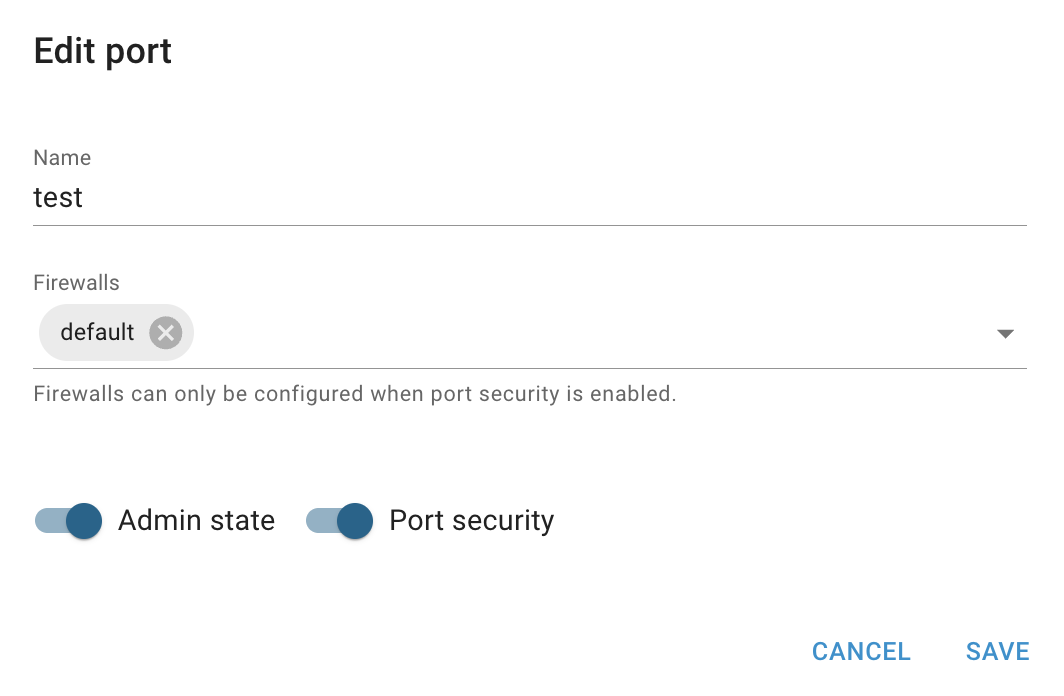
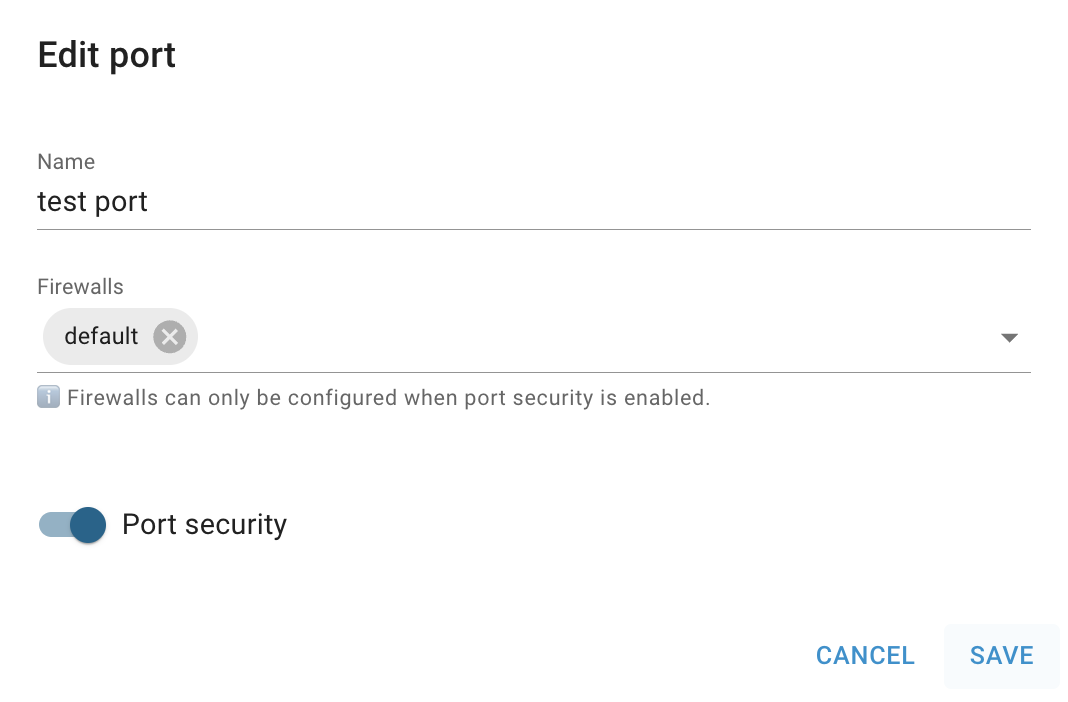
update ports article

diff --git a/content/products/networking/ports.md b/content/products/networking/ports.md
@@ -11,6 +11,7 @@ On this page, you can find an explanation of how to create, edit, delete Port an
   - [Create Port](#create-port)
   - [Attach Port to the VM](#attach-port-to-the-vm)
   - [Edit Port](#edit-port)
+  - [Enable/Disable Port](#enabledisable-port)
   - [Delete Port](#delete-port)
 
 ## Ports page
@@ -38,9 +39,12 @@ To create new Port, do the following:
   - *Fixes IP* - specify a fixed IP address within the selected subnet (optional);
   - *Firewalls* - assign one or more firewall groups to the port (optional).
 
-After these steps, the newly created Port will be added to the *Ports page*:
+After these steps, the newly created Port will be added to the *Ports page*.
 
-📝 After creating a port, you can either attach it to an existing Virtual Machine or associate it during the VM creation process.  
+
+{{% notice note %}}
+💡 After creating a port, you can either attach it to an existing Virtual Machine or associate it during the VM creation process.
+{{% /notice %}}
 
 ## Attach Port to the VM
 
@@ -60,11 +64,7 @@ There are two ways add already created Port to the Virtual Machine:
 ## Edit Port
 
 {{% notice note %}}
-📌 Editing a Port allows to:
-- update the Port name;  
-- configure assigned firewalls (security groups);
-- set the port to active or inactive state;
-- enable or disable Port Security.
+⚠️ The Edit action is available only for Ports associated with virtual machines.
 {{% /notice %}}
 
 To edit the Port, do the following:
@@ -74,14 +74,25 @@ To edit the Port, do the following:
 
 ![](../../../assets/images/networks/28.png?width=35pc&classes=border,shadow)
 
-After these steps, the selected Port will be updated.
 
 {{% notice note %}}
-⚠️ Important limitations:
-
-- Port Security can only be disabled if no firewalls (security groups) are assigned to the Port;
-- Firewalls cannot be configured when Port Security is disabled.
+⚠️ **Important limitations**: Firewalls cannot be configured when Port Security is disabled.
 {{% /notice %}}
+
+
+After these steps, the selected Port will be updated.
+
+
+## Enable/Disable Port
+
+To disable an active Port, do the following:
+- identify this Port on the *Ports page* and ensure, that it is an ACTIVE state;
+- click on the **Actions** icon and select the **Disable** in the list of available options;
+- confirm the action in the next opened *Confirmation window*.  
+
+After these steps, the selected Port will become inactive, and its status and state will change to DOWN.
+
+To enable it again, click the **Actions** icon and select **Enable**. The Port status will change to ACTIVE, and the state will be set to UP.
 
 ## Delete Port
 